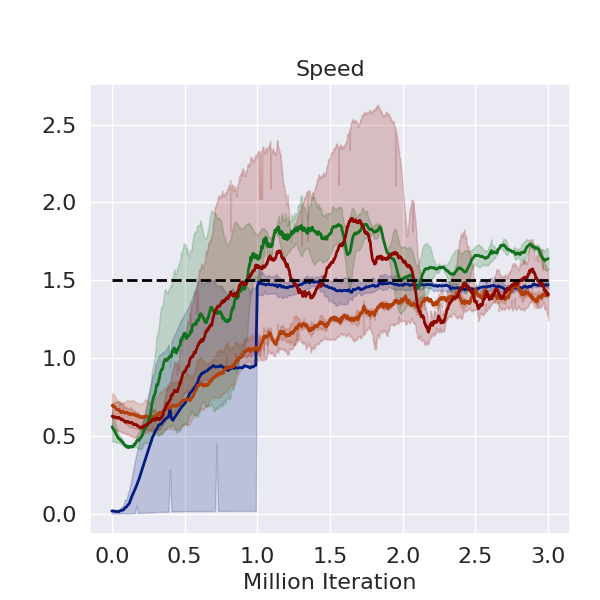
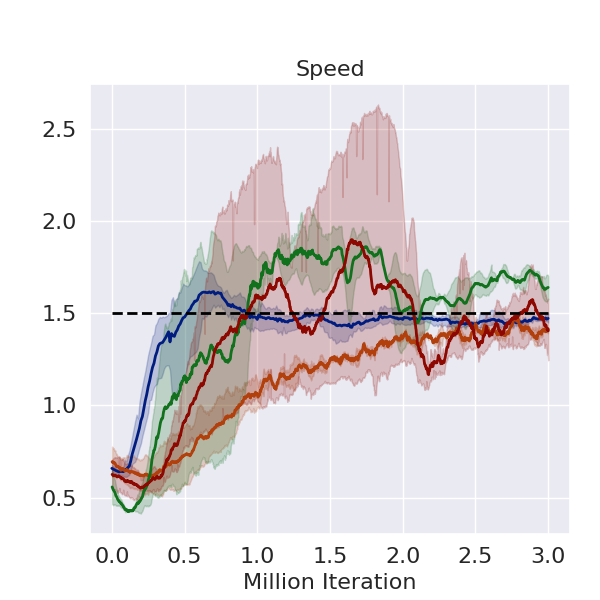
update data process

diff --git a/data_process/lineplot_mujoco_raw_spd_halfcheetah.py b/data_process/lineplot_mujoco_raw_spd_halfcheetah.py
@@ -22,7 +22,7 @@ base_dict = dict(HalfCheetah=1.5, Ant=1.5, Walker2d=1.5)
 fsac_final_list = ['conti100HalfCheetah-2021-05-13-20-58-14-s4', 'conti100HalfCheetah-2021-05-14-00-33-41-s2'
                    ,'conti240HalfCheetah-2021-05-14-22-26-58-s3']
 ylim_dict = {'episode_return':{'HalfCheetah': [-1000,2500]},'episode_cost':{}}
-fsac_bias = {'episode_return':{'Ant':-1000,'HalfCheetah':-750,},'episode_cost':{'Ant':0.675,'HalfCheetah':0.675,}}
+fsac_bias = {'episode_return':{'Ant':-1000,'HalfCheetah':-750,},'episode_cost':{'Ant':0.675,'HalfCheetah':67.5,}}
 
 
 def help_func():
@@ -94,9 +94,9 @@ def plot_eval_results_of_all_alg_n_runs(dirs_dict_for_plot=None):
                                     for tag in tag2plot:
                                         if dir.startswith('velo') and tag == 'episode_cost' and v.tag[11:]=='episode_velo_mean':
                                             data_in_one_run_of_one_alg[tag].append(
-                                                (1 - SMOOTHFACTOR) * data_in_one_run_of_one_alg[tag][
-                                                    -1] + SMOOTHFACTOR * float(t)
-                                                if data_in_one_run_of_one_alg[tag] else float(t))
+                                                ((1 - SMOOTHFACTOR) * data_in_one_run_of_one_alg[tag][
+                                                    -1] + SMOOTHFACTOR * float(t)) / 1.69 * 149.0
+                                                if data_in_one_run_of_one_alg[tag] else float(t)/ 1.69 * 149.0)
                                             data_in_one_run_of_one_alg['iteration'].append(int(step))
                                         elif tag ==  v.tag[11:] :
                                             data_in_one_run_of_one_alg[tag].append(
@@ -106,8 +106,8 @@ def plot_eval_results_of_all_alg_n_runs(dirs_dict_for_plot=None):
                                             data_in_one_run_of_one_alg['iteration'].append(int(step))
                         for i,d in enumerate(data_in_one_run_of_one_alg[tag]):
                             step = data_in_one_run_of_one_alg['iteration'][i]
-                            # if step < 1e6:
-                            #     data_in_one_run_of_one_alg[tag][i] += (1e6 - step) / 1e6 * fsac_bias[tag][task]
+                            if step < 1e6:
+                                data_in_one_run_of_one_alg[tag][i] += (1e6 - step) / 1e6 * fsac_bias[tag][task]
                         len1, len2 = len(data_in_one_run_of_one_alg['iteration']), len(data_in_one_run_of_one_alg[tag2plot[0]])
                         period = int(len1/len2)
                         data_in_one_run_of_one_alg['iteration'] = [data_in_one_run_of_one_alg['iteration'][i*period]/1000000. for i in range(len2)]

diff --git a/data_process/lineplot_mujoco_raw_spd_walker.py b/data_process/lineplot_mujoco_raw_spd_walker.py
@@ -13,7 +13,7 @@ from tensorboard.backend.event_processing import event_accumulator
 import json
 
 sns.set(style="darkgrid")
-SMOOTHFACTOR = 0.335 # 1 3 7 halfcheetah
+SMOOTHFACTOR = 0.135 # 1 3 7 halfcheetah
 SMOOTHFACTOR2 = 20
 SMOOTHFACTOR3 = 20
 DIV_LINE_WIDTH = 50
@@ -102,7 +102,7 @@ def plot_eval_results_of_all_alg_n_runs(dirs_dict_for_plot=None):
                                                     -1] + SMOOTHFACTOR * float(t)
                                                 if data_in_one_run_of_one_alg[tag] else float(t))
                                             data_in_one_run_of_one_alg['iteration'].append(int(step))
-                                        elif tag ==  v.tag[11:] :
+                                        elif tag ==  'episode_return' and v.tag[11:] == 'episode_return' :
                                             data_in_one_run_of_one_alg[tag].append(
                                                 (1 - SMOOTHFACTOR) * data_in_one_run_of_one_alg[tag][
                                                     -1] + SMOOTHFACTOR * float(t)
